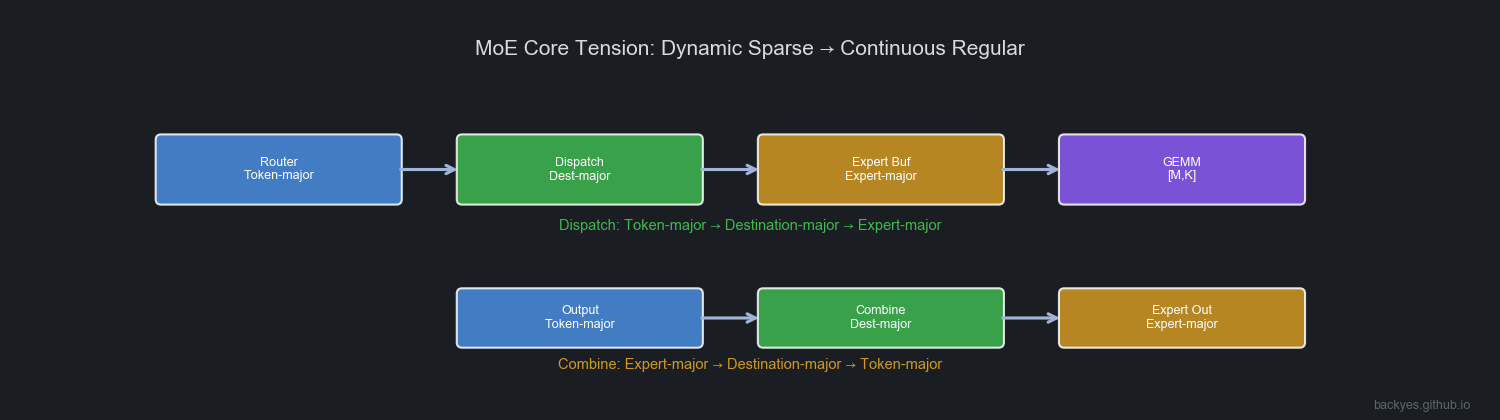
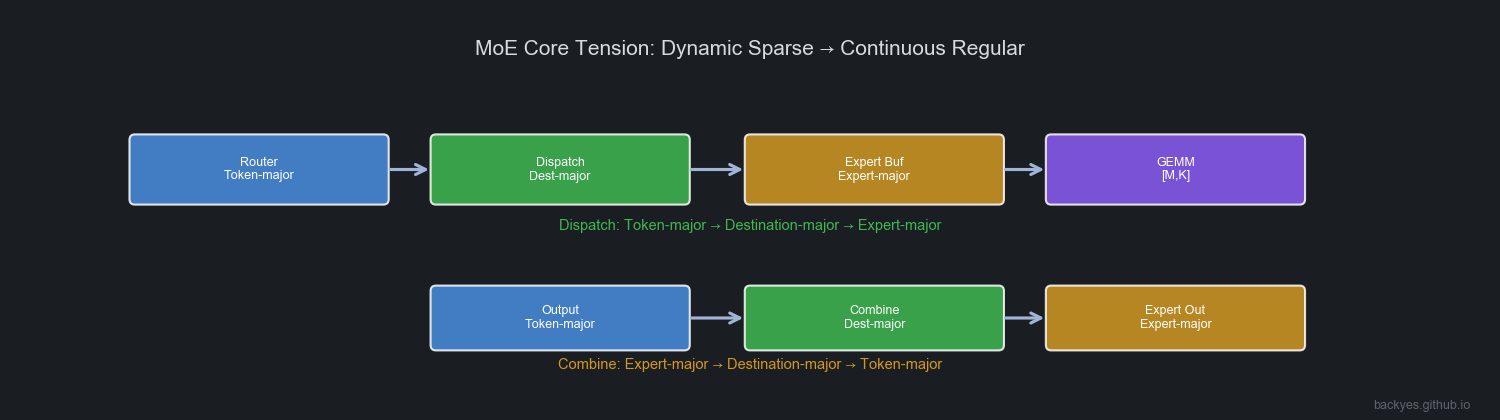
fix: remove redundant text + use FancyArrowPatch for clean arrows

diff --git a/posts/zz-gpu-microarchitecture-deep-ep-first-principles.html b/posts/zz-gpu-microarchitecture-deep-ep-first-principles.html
@@ -114,9 +114,7 @@
 <p>From a first-principles perspective, MoE's real challenge is not "how to send data from GPU A to GPU B."</p>
 <p>The truly difficult problem is:</p>
 <blockquote><p><strong>How does the dynamic sparse Token-Expert mapping produced by the Router get transformed into data layouts that both GPU communication hardware and Tensor Core compute hardware can process efficiently?</strong></p></blockquote>
-<p>MoE's core tension:</p>
 <img src="assets/moe_layout_transformation.png" alt="MoE Data Layout Transformation" style="max-width:100%;display:block;margin:1.5em auto">
-<pre><code>Dynamic sparse Token-Expert data flow<br>              ↓<br>Continuous regular GPU Tensor data flow</code></pre>
 <p>The Router outputs <code>Token → Expert></code>, but:</p>
 <ul>
 <li>The network wants <strong>Destination-major</strong></li>

diff --git a/posts/2026-07-28-zz-gpu-microarchitecture-deep-ep-first-principles.md b/posts/2026-07-28-zz-gpu-microarchitecture-deep-ep-first-principles.md
@@ -21,15 +21,7 @@ The truly difficult problem is:
 
 > **How does the dynamic sparse Token-Expert mapping produced by the Router get transformed into data layouts that both GPU communication hardware and Tensor Core compute hardware can process efficiently?**
 
-MoE's core tension:
-
 ![MoE Data Layout Transformation](assets/moe_layout_transformation.png)
-
-```
-Dynamic sparse Token-Expert data flow
-              ↓
-Continuous regular GPU Tensor data flow
-```
 
 The Router outputs `Token → Expert`, but:
 - The network wants **Destination-major**
